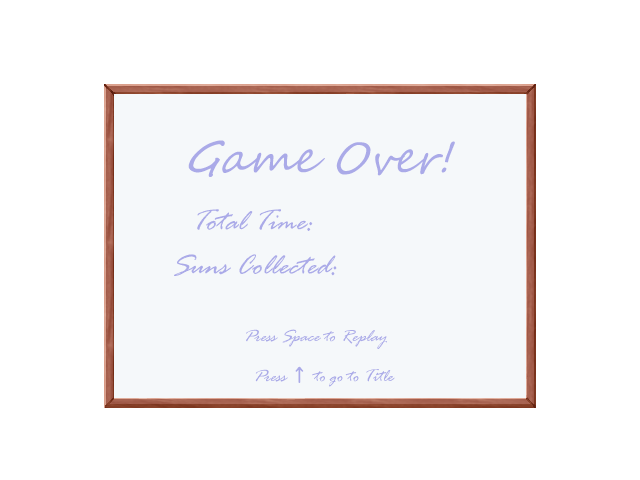
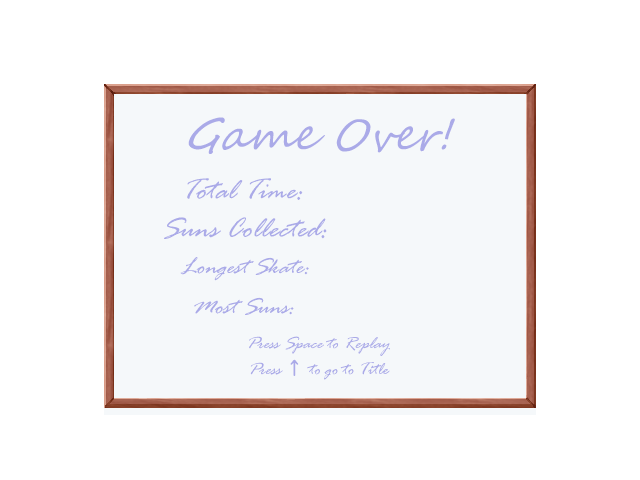
highscore commit

diff --git a/src/scenes/Play.js b/src/scenes/Play.js
@@ -5,6 +5,8 @@ class Play extends Phaser.Scene {
     }
 
     preload() {
+        // load texture atlas 
+        this.load.atlas('skatersheet', './assets/skatersheet.png', './assets/skater.json');
         // load images/tile sprites
         this.load.image('skater', './assets/skater.png');
         this.load.image('sunlight', './assets/sunlight.png');
@@ -35,7 +37,21 @@ class Play extends Phaser.Scene {
         music = this.sound.add('Music', musicConfig);
         music.play(musicConfig);
 
+        // animation config
+        this.anims.create({
+            key: 'skate',
+            frames: this.anims.generateFrameNames('skatersheet', {prefix:'skater', start: 4, end: 1}),
+            frameRate: 3,
+            repeat: -1,
+            repeatDelay: 1000
+        })
+
+        // add Skater
+        //this.Player = new Skater(this, game.config.width/2 - 80, 280, 'skater').setScale(0.4, 0.4).setOrigin(0, 0).play('skate');
+
         // place tile sprites
+        this.add.image(game.config.width/2, game.config.height/2 -9, 'gameOverBox').setScale(1.5, 1.5);
+
         this.sky = this.add.tileSprite(0, 0, 640, 480, 'sky').setOrigin(0, 0);
         this.trees2 = this.add.tileSprite(0, 0, 640, 480, 'trees2').setOrigin(0, 0);
         this.snowfield2 = this.add.tileSprite(0, -15, 640, 480, 'snowBack').setOrigin(0, 0);
@@ -50,10 +66,10 @@ class Play extends Phaser.Scene {
         this.add.rectangle(603, 5, 32, 455, 0xFFFFFF).setOrigin(0, 0);
         */
 
-        // add Skater
+        // add Objects; sunlight, obstacles, and the player
         this.Sunlight01 = new Sunlight(this, game.config.width, 230, 'sunlight', 0, 50).setOrigin(0,0);
         this.Obstacle01 = new Obstacle(this, game.config.width, 230, 'rock', 0, 50).setOrigin(0,0);
-        this.Player = new Skater(this, game.config.width/2 - 80, 280, 'skater').setScale(0.4, 0.4).setOrigin(0, 0);
+        this.Player = new Skater(this, game.config.width/2 - 80, 280, 'skater').setScale(0.4, 0.4).setOrigin(0, 0).play('skate');
         //this.Sunlight01 = new Sunlight(this, game.config.width, 230, 'sunlight', 0, 50).setOrigin(0,0);
 
         
@@ -124,9 +140,13 @@ class Play extends Phaser.Scene {
         scoreConfig.fixedWidth = 0;
         this.goof = this.add.rectangle(0, 0, 640, 480, 0x000000, 1).setOrigin(0, 0);
         this.end = this.add.image(game.config.width/2, game.config.height/2, 'gameOverBox');
-        this.results = this.add.text(game.config.width/2 + 10, 202,  "  ", scoreConfig);
-        this.suns = this.add.text(game.config.width/2 + 35, 247, this.sunCount + "  ", scoreConfig);
+        this.results = this.add.text(game.config.width/2 + 10, 175,  "  ", scoreConfig);
+        this.suns = this.add.text(game.config.width/2 + 35, 212.5, this.sunCount + "  ", scoreConfig);
+        this.longest = this.add.text(game.config.width/2 + 35, 250,  this.calcTime(game.settings.longestTime), scoreConfig);
+        this.most = this.add.text(game.config.width/2 + 35, 287.5, game.settings.mostSuns, scoreConfig);
         this.results.alpha = 0;
+        this.longest.alpha = 0;
+        this.most.alpha = 0;
         this.end.alpha = 0;
         this.suns.alpha = 0;
         
@@ -176,14 +196,25 @@ class Play extends Phaser.Scene {
     }
     if(this.gameOver){
         this.end.alpha = 1;
+        if(this.hold > game.settings.longestTime){
+            game.settings.longestTime = this.hold;
+            this.longest.text = (this.calcTime(this.hold));
+        }
+        if(this.sunCount > game.settings.mostSuns){
+            game.settings.mostSuns = this.sunCount;
+            this.most.text = this.sunCount;
+        }
         this.results.text = (this.calcTime(this.hold));
         this.results.alpha = 1;
         this.suns.alpha = 1;
+        this.longest.alpha = 1;
+        this.most.alpha = 1;
     }
 
         // check key input for restart / menu
         if (this.gameOver && Phaser.Input.Keyboard.JustDown(keySPACE)) {
             music.stop();
+            game.settings.gameSpeed = 1;
             this.scene.restart();
         }
         if (this.gameOver && Phaser.Input.Keyboard.JustDown(keyLEFT)) {
@@ -206,6 +237,7 @@ class Play extends Phaser.Scene {
             this.currentTime -= this.dec;
             this.timeDisplay.text = 'Time Left: ' + this.currentTime;
             game.settings.hit = true;
+            this.cameras.main.shake(50);
             console.log("ouch!!!");
 
         }

diff --git a/src/main.js b/src/main.js
@@ -12,9 +12,11 @@ let game = new Phaser.Game(config);
 
 // define game settings
 game.settings = {
-    gameTimer: 61000,  
+    gameTimer: 3000,  
     gameSpeed: 1,
-    hit: false
+    hit: false,
+    longestTime: 0,
+    mostSuns: 0
 }
 
 

diff --git a/README.md b/README.md
@@ -1,2 +1,2 @@
 # Snow-Fall
-Infinite Runner created for CMPM/ART 120
+Infinite Runner created for CMPM/ARTG 120
